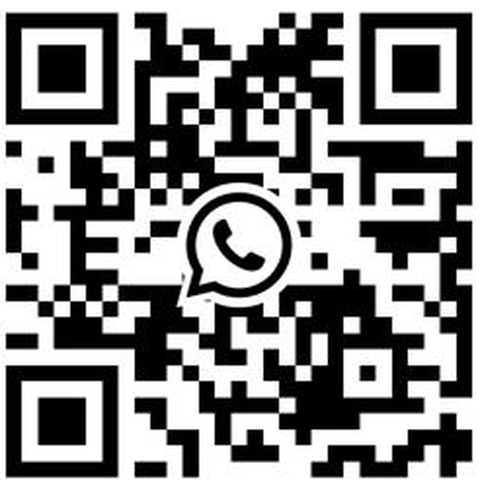
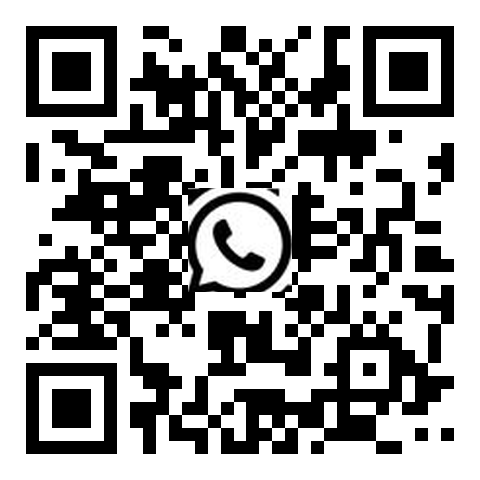
WhatsApp real de pagos (849-371-2222) y QR nuevo; avisos por Brevo
- El boton "Abrir WhatsApp" del pago y el de membresia vencida llevaban a
  un numero de relleno (18099991111).
- QR regenerado apuntando a wa.me/18493712222, con el mismo logo.
- aviso-correo: Brevo como proveedor cuando tenga clave (Resend no acepta
  dpdns.org), remitente enurmia.rd@gmail.com.

Claude-Session: https://claude.ai/code/session_01YRS5RdZ79MXU2R1X5mjiYL

diff --git a/supabase/functions/aviso-correo/index.ts b/supabase/functions/aviso-correo/index.ts
@@ -43,11 +43,37 @@ function fechaLarga(iso: string): string {
   } catch { return iso.slice(0, 10); }
 }
 
-/* Devuelve el error de Resend tal cual: el panel lo ensena, y asi se sabe
-   enseguida si falta verificar el dominio (con onboarding@resend.dev solo
-   se puede escribir a la propia cuenta de Resend). */
-async function enviar(c: { de: string; para: string; asunto: string; texto: string; html: string; responder?: string }):
-  Promise<{ ok: boolean; error?: string }> {
+/* Dos proveedores. Brevo va primero si tiene clave: deja enviar a
+   cualquier estudiante con solo verificar el correo remitente (Resend
+   exige un dominio propio y no acepta dpdns.org por ser publico).
+   Resend queda de respaldo, y con onboarding@resend.dev solo entrega
+   a la propia cuenta de Resend. El error se devuelve tal cual: el panel
+   lo ensena. */
+type Correo = { de: string; para: string; asunto: string; texto: string; html: string; responder?: string };
+
+async function enviarBrevo(c: Correo, clave: string): Promise<{ ok: boolean; error?: string }> {
+  const remitente = Deno.env.get('BREVO_FROM') || 'enurmia.rd@gmail.com';
+  try {
+    const r = await fetch('https://api.brevo.com/v3/smtp/email', {
+      method: 'POST',
+      headers: { 'Content-Type': 'application/json', 'accept': 'application/json', 'api-key': clave },
+      body: JSON.stringify({
+        sender: { name: c.de, email: remitente }, to: [{ email: c.para }],
+        replyTo: c.responder ? { email: c.responder } : undefined,
+        subject: c.asunto, textContent: c.texto, htmlContent: c.html
+      })
+    });
+    if (r.ok) return { ok: true };
+    const t = await r.json().catch(() => ({}));
+    return { ok: false, error: (t && (t.message || t.code)) || ('Brevo ' + r.status) };
+  } catch (e) {
+    return { ok: false, error: String(e) };
+  }
+}
+
+async function enviar(c: Correo): Promise<{ ok: boolean; error?: string }> {
+  const brevo = Deno.env.get('BREVO_API_KEY');
+  if (brevo) return enviarBrevo(c, brevo);
   const clave = Deno.env.get('RESEND_API_KEY');
   if (!clave) return { ok: false, error: 'Falta RESEND_API_KEY en el servidor.' };
   const remitente = Deno.env.get('RESEND_FROM') || 'onboarding@resend.dev';
@@ -165,6 +191,7 @@ Deno.serve(async (req) => {
     const r = await fetch('https://api.resend.com/domains', { headers: { 'Authorization': `Bearer ${clave}` } });
     const t = await r.json().catch(() => ({}));
     return json({ remitente: Deno.env.get('RESEND_FROM') || 'onboarding@resend.dev', http: r.status,
+      proveedor: Deno.env.get('BREVO_API_KEY') ? 'brevo' : 'resend', remitenteBrevo: Deno.env.get('BREVO_FROM') || 'enurmia.rd@gmail.com',
       dominios: ((t && t.data) || []).map((d: { name: string; status: string }) => ({ name: d.name, status: d.status })),
       mensaje: t && t.message });
   }

diff --git a/assets/js/vistas/paneles.js b/assets/js/vistas/paneles.js
@@ -1087,7 +1087,7 @@ window.Vistas = (function () {
      propósito: quien se quedó a medias vuelve antes si puede seguir
      repasando que si se encuentra una puerta cerrada.
      ============================================================ */
-  const WHATSAPP = '18099991111';
+  const WHATSAPP = '18493712222';
 
   function membresiaVencida(info){
     const plan = (info && info.plan) || '';

diff --git a/index.html b/index.html
@@ -518,7 +518,7 @@
      por todo el archivo. Formato de wa.me: pais + numero, sin signos.
      (NOMBRE_PLAN, PRECIOS, MESES_PLAN y pintarPlanes viven mas arriba,
      junto a pintarPrograma, que los necesita desde su primera llamada.) */
-  const WHATSAPP = '18099991111';
+  const WHATSAPP = '18493712222';
 
   function verPlanes(){
     $('#modalPlanes').classList.remove('hidden');
